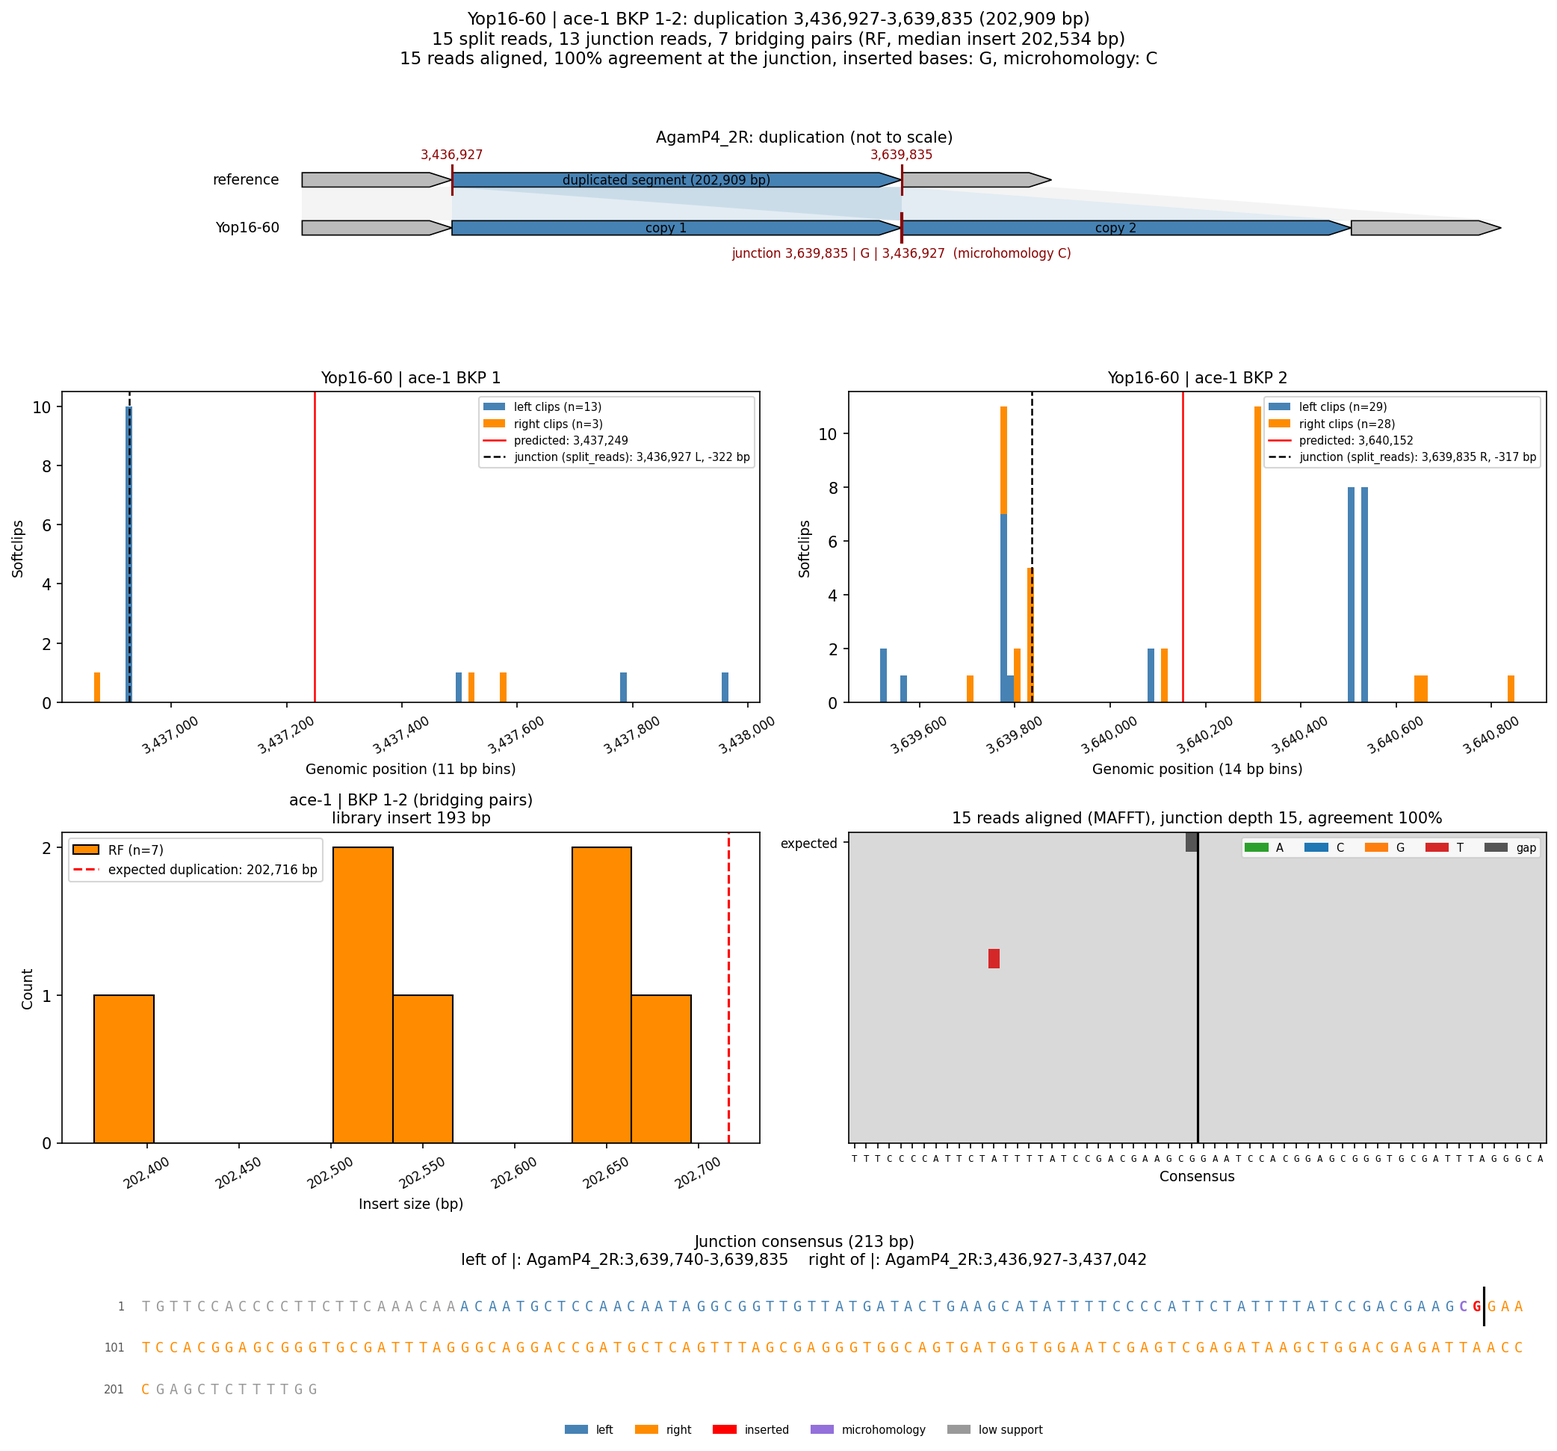
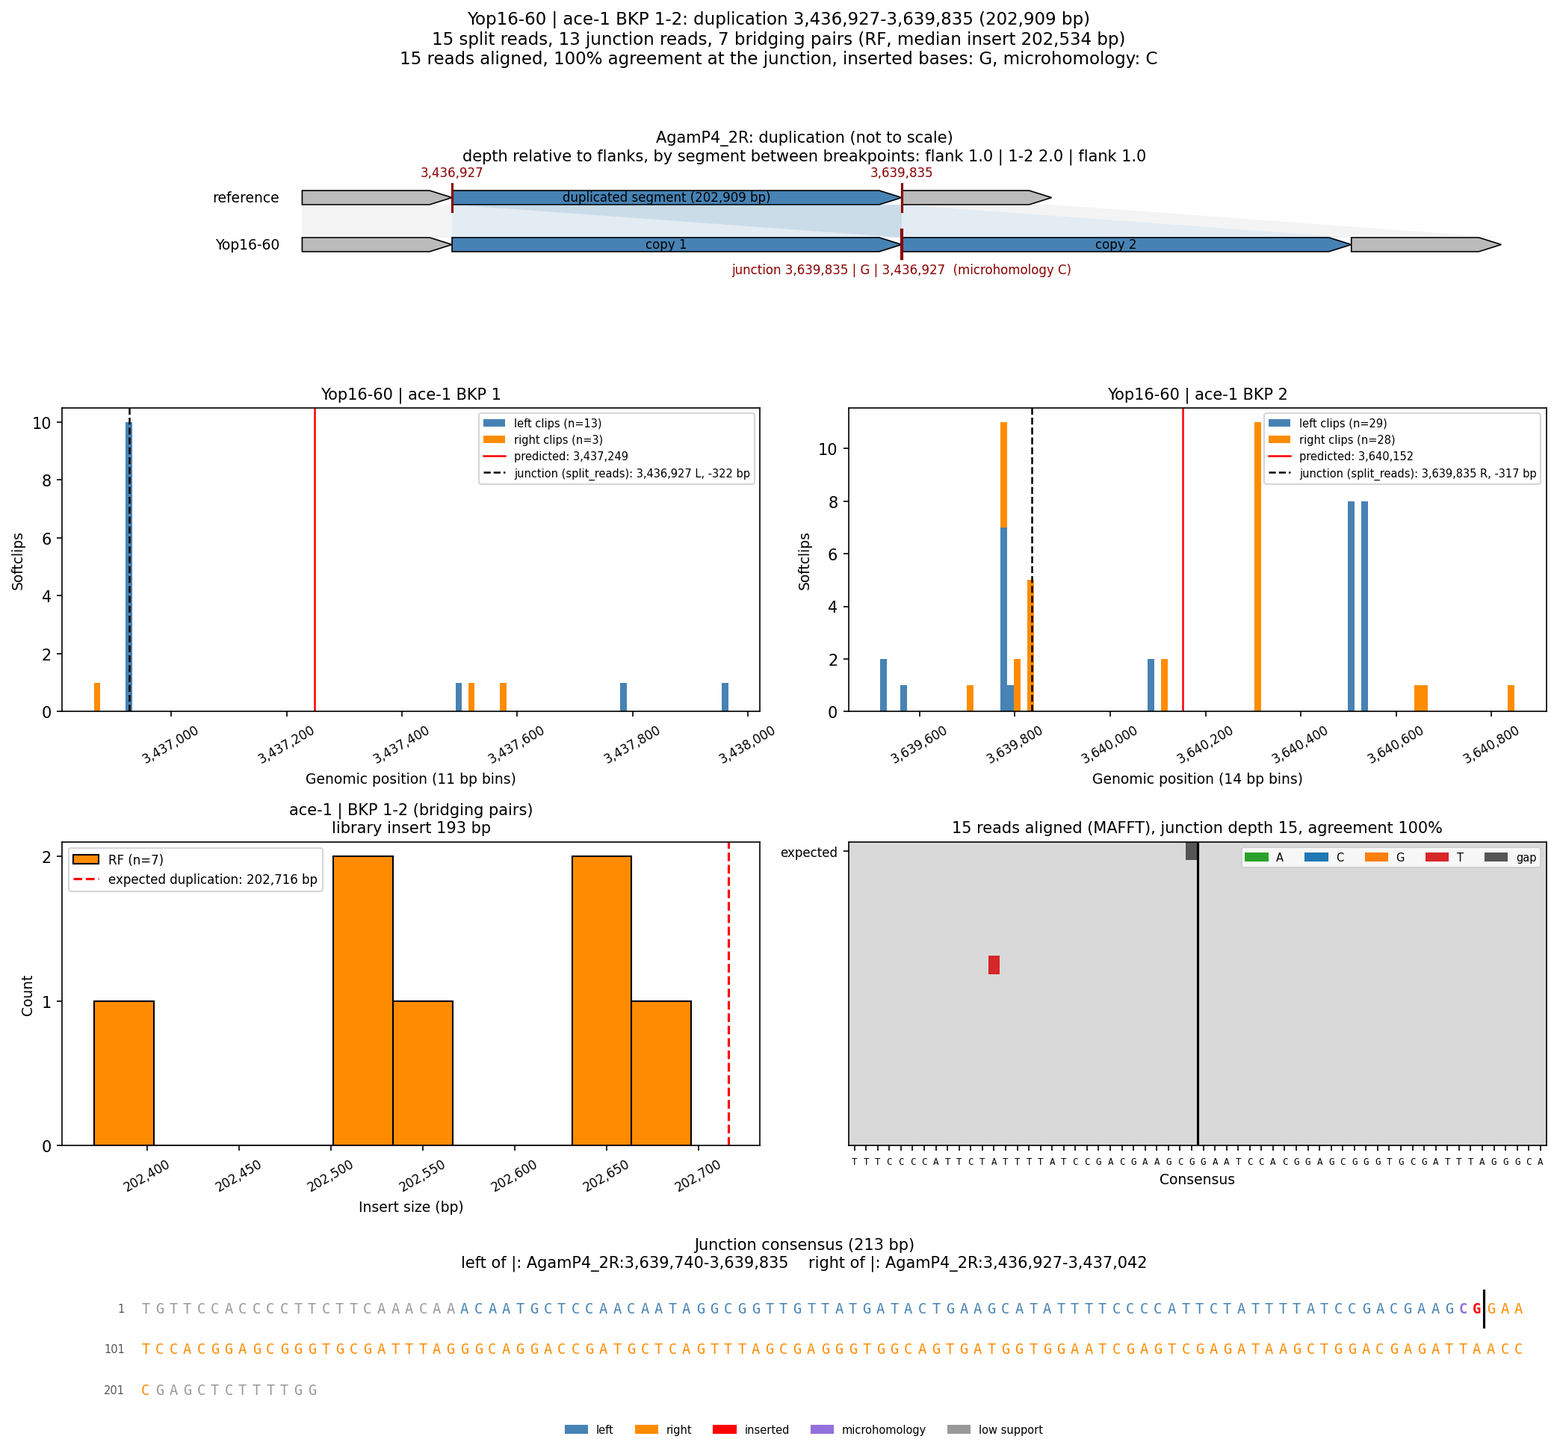
junctions: call SVs only between joined breakpoints, segment depths
Two breakpoints are joined when split reads and bridging pairs (or junction
reads without split reads) reach --min-support. Only joined pairs refine
breakpoints, get an SV call, an alignment and an evidence figure. Without
--pairs, only joined pairs are reported and printed as --pairs; with --pairs,
every requested pair is reported with joined and support columns. Add
segment depths between consecutive breakpoints relative to the flanks
(*_segments.tsv, --segment-flank), also shown on the schematic.

diff --git a/ardu/cli/junctions.py b/ardu/cli/junctions.py
@@ -96,6 +96,13 @@ def register(subparsers) -> None:
                              "summary in the title. With --junction and MAFFT installed, "
                              "also align the junction and split reads and add their "
                              "consensus around the junction.")
+    parser.add_argument("--min-support", type=int, default=2,
+                        help="Split reads plus bridging pairs (junction reads without "
+                             "split reads) needed to join two breakpoints and call an SV. "
+                             "Default=2.")
+    parser.add_argument("--segment-flank", type=int, default=10_000,
+                        help="Length of the flanks, outside the first and last breakpoints, "
+                             "that segment depths are compared with. Default=10000.")
     parser.add_argument("--reference", metavar="FASTA",
                         help="Indexed reference FASTA, used for the expected junction "
                              "sequence and microhomology. Defaults to the --blast reference.")
@@ -630,6 +637,8 @@ def _evidence_text(ev: dict) -> str:
         call = (f"{ev['sv_type']} {ev['bkp1_refined']:,}-{ev['bkp2_refined']:,} "
                 f"({ev['size']:,} bp)" if ev["bkp1_refined"] else
                 f"{ev['sv_type']} (~{ev['size']:,} bp)")
+    elif not ev.get("joined", True):
+        call = f"not joined (support {ev['support']})"
     else:
         call = "no SV call"
     junction_reads = "NA" if ev["junction_reads"] is None else ev["junction_reads"]
@@ -847,7 +856,10 @@ def _draw_structure_panel(ax, ev: dict) -> None:
     ax.set_xlim(-1.6, max(x_max, 2 * flank + seg) + 0.3)
     ax.set_ylim(y_sample - 0.7, y_ref + 0.6)
     ax.axis("off")
-    ax.set_title(f"{ev['chrom']}: {sv_type} (not to scale)", fontsize=10)
+    title = f"{ev['chrom']}: {sv_type} (not to scale)"
+    if ev.get("_segments"):
+        title += f"\ndepth relative to flanks, by segment between breakpoints: {ev['_segments']}"
+    ax.set_title(title, fontsize=10)
 
 
 def _plot_evidence(ev: dict, windows: tuple[dict, dict], panel: dict, output_path: str,
@@ -940,33 +952,44 @@ def _junction_search(bam_file: str, windows: dict, locus_pairs: list) -> tuple[l
 def _pair_evidence(
     bam_name: str, locus, b1: int, b2: int, windows: dict, bridges: dict,
     junction_counts: dict | None, library_median, library_mad, sv_type: str,
+    min_support: int,
 ) -> tuple[dict, dict]:
     """Evidence row and bridging insert panel for breakpoints *b1*, *b2* of *locus*.
 
-    The junction is the one most split reads support, or the top softclip of
-    each window without split reads. The SV type is, in order: --sv-type, the
-    split read geometry, the bridging pair orientation, the softclip geometry.
+    The two breakpoints are joined when split reads and bridging pairs (or
+    junction reads, without split reads) reach *min_support*; only then is an
+    SV called. The junction is the one most split reads support, or the top
+    softclip of each window without split reads. The SV type is, in order:
+    --sv-type, the split read geometry, the bridging pair orientation, the
+    softclip geometry.
     """
     k1, k2 = (locus, b1), (locus, b2)
     w1, w2 = windows[k1], windows[k2]
     junctions = _split_junctions(windows, k1, k2)
+    pairs = [p for _, p in bridges.get((locus, b1, b2), {}).values()]
+    n_split = sum(len(v) for v in junctions.values())
+    n_junction = None if junction_counts is None else junction_counts.get((locus, b1, b2), 0)
+    support = n_split + len(pairs) + ((n_junction or 0) if not n_split else 0)
+    joined = support >= min_support
+
     ends, refined_by, split_reads = (None, None), None, []
-    if junctions:
+    if joined and junctions:
         (p1, s1, p2, s2), split_reads = max(junctions.items(), key=lambda j: len(j[1]))
         ends, refined_by = ((p1, s1), (p2, s2)), "split_reads"
-    elif w1["clips"] and w2["clips"]:
+    elif joined and w1["clips"] and w2["clips"]:
         ends, refined_by = (_top_clip(w1["clips"]), _top_clip(w2["clips"])), "softclips"
     geometry_type, size = _sv_geometry(*ends) if refined_by else (None, None)
 
     chosen = sv_type if sv_type != "auto" else (
         geometry_type if refined_by == "split_reads" else None
     )
-    pairs = [p for _, p in bridges.get((locus, b1, b2), {}).values()]
     panel = {
         "locus": locus, "panel": f"{b1}-{b2}", "class": "bridging", "pairs": pairs,
         "size": size if size is not None else abs(w2["predicted"] - w1["predicted"]),
     }
     _finish_panel(panel, library_median, library_mad, chosen or "auto")
+    if not joined:
+        panel["sv_type"] = panel["expected"] = None
 
     ev = {
         "bam": bam_name, "locus": locus, "pair": f"{b1}-{b2}", "chrom": w1["region"][0],
@@ -976,12 +999,13 @@ def _pair_evidence(
         "bkp2_refined": ends[1][0] if ends[1] else None,
         "bkp2_side": ends[1][1] if ends[1] else None,
         "refined_by": refined_by,
-        "sv_type": chosen or panel["sv_type"] or geometry_type,
+        "joined": joined,
+        "support": support,
+        "sv_type": (chosen or panel["sv_type"] or geometry_type) if joined else None,
         "size": size,
-        "split_reads": sum(len(v) for v in junctions.values()),
+        "split_reads": n_split,
         "split_reads_at_junction": len(split_reads),
-        "junction_reads": (None if junction_counts is None
-                           else junction_counts.get((locus, b1, b2), 0)),
+        "junction_reads": n_junction,
         "softclips_bkp1": len(w1["clips"]),
         "softclips_bkp2": len(w2["clips"]),
         "bridging_pairs": len(pairs),
@@ -1037,6 +1061,41 @@ def _junction_alignment(ev: dict, matches: list, k1: tuple, k2: tuple, fasta,
     return alignment
 
 
+def _segment_depths(bam_file: str, bam_name: str, windows: dict, refined_by_key: dict,
+                    flank: int) -> list[dict]:
+    """Median depth of each segment between consecutive breakpoints of a locus,
+    and of the flanks outside them, relative to the mean of the two flanks.
+    Breakpoints refined by a joined pair are used, else the predicted ones.
+    """
+    rows = []
+    with pysam.AlignmentFile(bam_file, "rb") as bam:
+        for locus in dict.fromkeys(k[0] for k in windows):
+            keys = [k for k in windows if k[0] == locus]
+            chrom = windows[keys[0]]["region"][0]
+            if len(keys) < 2 or any(windows[k]["region"][0] != chrom for k in keys):
+                continue
+            positions = sorted(
+                (refined_by_key[k][0] if k in refined_by_key else windows[k]["predicted"], k[1])
+                for k in keys
+            )
+            bounds = ([max(0, positions[0][0] - flank)] + [p for p, _ in positions]
+                      + [positions[-1][0] + flank])
+            labels = (["flank"] + [f"{a}-{b}" for (_, a), (_, b) in zip(positions, positions[1:])]
+                      + ["flank"])
+            medians = []
+            for start, end in zip(bounds, bounds[1:]):
+                depth = bam_utils.depth_array(bam, chrom, start, end)
+                medians.append(float(np.median(depth)) if len(depth) else float("nan"))
+            base = np.nanmean([medians[0], medians[-1]])
+            for label, start, end, median in zip(labels, bounds, bounds[1:], medians):
+                rows.append({
+                    "bam": bam_name, "locus": locus, "segment": label, "chrom": chrom,
+                    "start": start + 1, "end": end, "median_depth": median,
+                    "relative_depth": round(median / base, 2) if base else None,
+                })
+    return rows
+
+
 # ---------------------------------------------------------------------------
 # Main orchestration
 # ---------------------------------------------------------------------------
@@ -1049,6 +1108,7 @@ def run(args) -> None:
     bridges_output = f"{args.output}_bridging_pairs.tsv"
     summary_output = f"{args.output}_insert_summary.tsv"
     evidence_output = f"{args.output}_junction_summary.tsv"
+    segments_output = f"{args.output}_segments.tsv"
 
     for path in (fasta_output, tsv_output):
         if os.path.exists(path):
@@ -1110,6 +1170,7 @@ def run(args) -> None:
 
     summary_rows: list[dict] = []
     evidence_rows: list[dict] = []
+    segment_rows: list[dict] = []
     pooled_library: list[int] = []
     pooled_panels: dict = {}
     pooled_windows: dict = {}
@@ -1182,13 +1243,19 @@ def run(args) -> None:
                 write_junction_reads_fasta(matches, output_dir, bam_name)
 
         # ---- Evidence per breakpoint pair ----
-        refined_by_key: dict[tuple, tuple] = {}
         pair_results = []
         for locus, b1, b2 in locus_pairs:
             ev, panel = _pair_evidence(
                 bam_name, locus, b1, b2, windows, bridges, junction_counts,
-                library_median, library_mad, args.sv_type,
+                library_median, library_mad, args.sv_type, args.min_support,
             )
+            if not ev["joined"]:
+                if canonical_pairs:
+                    print(f"Warning: {bam_name} {locus} BKP {b1}-{b2} not joined "
+                          f"(support {ev['support']}, --min-support {args.min_support}).")
+                    evidence_rows.append(ev)
+                    pair_results.append((locus, b1, b2, ev, panel, None))
+                continue
             alignment = None
             if fasta is not None and ev["_ends"]:
                 ev["_microhomology"] = microhomology_split(fasta, ev["chrom"], ev["_ends"])
@@ -1201,11 +1268,29 @@ def run(args) -> None:
                 )
             evidence_rows.append(ev)
             pair_results.append((locus, b1, b2, ev, panel, alignment))
+
+        joined = [(locus, b1, b2, ev) for locus, b1, b2, ev, *_ in pair_results if ev["joined"]]
+        if not canonical_pairs:
+            found = " ".join(f"{b1}-{b2}" for _, b1, b2, _ in joined)
+            print(f"Joined breakpoint pairs in {bam_name}: "
+                  + (f"--pairs {found}" if found else "none"))
+        # breakpoints are refined by the joined pairs, split reads first
+        refined_by_key: dict[tuple, tuple] = {}
+        for locus, b1, b2, ev in sorted(joined, key=lambda j: j[3]["refined_by"] != "split_reads"):
             for bkp, n in ((b1, 1), (b2, 2)):
                 if ev[f"bkp{n}_refined"] is not None:
                     refined_by_key.setdefault((locus, bkp), (
                         ev[f"bkp{n}_refined"], ev[f"bkp{n}_side"], ev["refined_by"]
                     ))
+        segments = _segment_depths(bam_file, bam_name, windows, refined_by_key,
+                                   args.segment_flank)
+        segment_rows.extend(segments)
+        segment_text = {
+            locus: " | ".join(f"{r['segment']} {r['relative_depth']:.1f}"
+                              for r in segments if r["locus"] == locus
+                              and r["relative_depth"] is not None)
+            for locus in {r["locus"] for r in segments}
+        }
         for key, w in windows.items():
             if key not in refined_by_key and w["clips"]:
                 refined_by_key[key] = (*_top_clip(w["clips"]), "softclips")
@@ -1238,6 +1323,9 @@ def run(args) -> None:
                                      f"{args.output}_{bam_name}_softclip_dist.png")
         if args.plot_evidence:
             for locus, b1, b2, ev, panel, alignment in pair_results:
+                if not ev["joined"]:
+                    continue
+                ev["_segments"] = segment_text.get(locus)
                 _plot_evidence(
                     ev, (window_plots[(locus, b1)], window_plots[(locus, b2)]), panel,
                     f"{args.output}_{bam_name}_{locus}_{b1}-{b2}_evidence.png",
@@ -1305,7 +1393,7 @@ def run(args) -> None:
     evidence_columns = [
         "bam", "locus", "pair", "chrom", "bkp1_predicted", "bkp2_predicted",
         "bkp1_refined", "bkp1_side", "bkp2_refined", "bkp2_side", "refined_by",
-        "sv_type", "size", "split_reads", "split_reads_at_junction", "junction_reads",
+        "joined", "support", "sv_type", "size", "split_reads", "split_reads_at_junction", "junction_reads",
         "softclips_bkp1", "softclips_bkp2", "bridging_pairs", "pair_orientation",
         "insert_median", "insert_expected", "microhomology", "aligned_reads",
         "consensus_length", "junction_depth", "junction_agreement", "inserted_bases",
@@ -1321,4 +1409,8 @@ def run(args) -> None:
     print(f"\nBridging pairs saved to {bridges_output}")
     print(f"Insert size summary saved to {summary_output}")
     print(f"Junction evidence saved to {evidence_output}")
+    pd.DataFrame(segment_rows, columns=[
+        "bam", "locus", "segment", "chrom", "start", "end", "median_depth", "relative_depth",
+    ]).to_csv(segments_output, sep="\t", index=False, na_rep="NA")
+    print(f"Segment depths saved to {segments_output}")
     print("Done.")

diff --git a/tests/test_inserts.py b/tests/test_inserts.py
@@ -177,3 +177,35 @@ def test_junction_summary(paired):
         assert row["junction_reads"] == "NA" or pd.isna(row["junction_reads"])
     for plot in ("softclip_dist", "del_1-2_evidence", "dup_1-2_evidence"):
         assert (paired["dir"] / f"out_sample_{plot}.png").exists()
+
+
+def _run_with_third_breakpoint(paired, name, extra):
+    """Rerun on the same bam with a breakpoint 3 at 4,000 in ``del``, joined to nothing."""
+    d = paired["dir"]
+    (d / f"{name}_bkp.tsv").write_text(
+        (d / "bkp.tsv").read_text() + "sample\tdel\tchr1\t4000\t3\truptures\n"
+    )
+    parser = argparse.ArgumentParser()
+    junctions.register(parser.add_subparsers())
+    args = parser.parse_args([
+        "junctions", "-b", str(d / "bams.txt"), "-i", str(d / f"{name}_bkp.tsv"),
+        "-o", str(d / name), "-e", "200", *extra,
+    ])
+    args.func(args)
+    return (pd.read_csv(d / f"{name}_junction_summary.tsv", sep="\t"),
+            pd.read_csv(d / f"{name}_segments.tsv", sep="\t"))
+
+
+def test_only_joined_pairs_without_pairs_option(paired):
+    evidence, segments = _run_with_third_breakpoint(paired, "auto", [])
+    assert sorted(zip(evidence["locus"], evidence["pair"])) == [("del", "1-2"), ("dup", "1-2")]
+    assert evidence["joined"].all()
+    assert list(segments.query("locus == 'del'")["segment"]) == ["flank", "1-2", "2-3", "flank"]
+
+
+def test_requested_pair_not_joined_gets_no_call(paired):
+    evidence, _ = _run_with_third_breakpoint(paired, "forced", ["--pairs", "1-3"])
+    row = evidence.set_index(["locus", "pair"]).loc[("del", "1-3")]
+    assert not row["joined"]
+    assert row["support"] == 0
+    assert pd.isna(row["sv_type"]) and pd.isna(row["size"]) and pd.isna(row["bkp1_refined"])

diff --git a/README.md b/README.md
@@ -250,12 +250,19 @@ The library insert is the median of the proper FR pairs. A pair is discordant wh
 
 #### Junction evidence
 
-For each pair of breakpoints (the `--pairs`, or every pair within a locus), the evidence is gathered in `*_junction_summary.tsv`:
+Two breakpoints are **joined** when the split reads and bridging pairs between them (or the junction reads, without split reads) reach `--min-support` (default 2). Only joined pairs are refined, called and plotted, so with more than two breakpoints (complex rearrangements, or a duplication with a deletion inside a copy) the steps in depth that are not junctions are not reported as SVs.
+
+- Without `--pairs`, every pair of breakpoints within a locus is tested and only the joined ones are reported; ArDu prints them as `--pairs` to reuse.
+- With `--pairs`, every requested pair is reported, with `joined` and `support` columns, and a warning for those not joined.
+
+For each pair, the evidence is gathered in `*_junction_summary.tsv`:
 - **split reads**: primary alignments clipped in one window whose supplementary alignment (`SA` tag) is clipped in the other. The junction most of them support gives the refined breakpoints; without split reads, the position with the most softclips in each window is used.
 - **SV type and size** from the side of the clips: left clips at the left breakpoint and right clips at the right one make a tandem duplication (size from first to last duplicated base), the opposite makes a deletion (size of the deleted segment). `--sv-type` overrides it; without split reads, the bridging pair orientation decides.
 - **junction reads** (with `--junction`), **softclips** per window and **bridging pairs** with their orientation, median and expected insert, the expected insert using the refined size.
 
-`--plot-evidence` draws one figure per sample and breakpoint pair: for a deletion or a tandem duplication, a schematic of the reference and the sample (not to scale) with the junction and its sequence; the softclips at both breakpoints (left and right clips stacked, with the predicted and refined positions) and the bridging pair inserts, with the call and its evidence in the title.
+`*_segments.tsv` gives, for each locus with two breakpoints or more, the median depth of each segment between consecutive breakpoints (refined ones when joined, else predicted) and of the flanks outside them (`--segment-flank`, default 10 kb), relative to the mean of the two flanks.
+
+`--plot-evidence` draws one figure per sample and joined breakpoint pair: for a deletion or a tandem duplication, a schematic of the reference and the sample (not to scale) with the junction, its sequence and the segment depths; the softclips at both breakpoints (left and right clips stacked, with the predicted and refined positions) and the bridging pair inserts, with the call and its evidence in the title.
 
 #### Junction sequence
 
@@ -291,6 +298,8 @@ ardu junctions -b bamlist.txt -i ArDuRun-run1-DATE/run1_breakpoints.tsv \
 | `--plot-insert` | Plot insert-size distributions. | `False` |
 | `--plot-softclip` | Plot softclip pileup per breakpoint, left and right clips stacked, with predicted and refined positions. | `False` |
 | `--plot-evidence` | Plot softclips at both breakpoints and the bridging pair inserts of each breakpoint pair, with the evidence summary. With `--junction` and MAFFT, also align the junction reads. | `False` |
+| `--min-support` | Split reads plus bridging pairs (junction reads without split reads) needed to join two breakpoints and call an SV. | `2` |
+| `--segment-flank` | Length of the flanks outside the first and last breakpoints that segment depths are compared with (bp). | `10000` |
 | `--reference` | Indexed reference FASTA for the expected junction and microhomology. Defaults to the `--blast` reference. | `None` |
 | `--plot-mode` | `per-bam`, `pooled`, or `both`. | `per-bam` |
 
@@ -302,6 +311,7 @@ ardu junctions -b bamlist.txt -i ArDuRun-run1-DATE/run1_breakpoints.tsv \
 | `*_junction_summary.tsv` | One row per sample and breakpoint pair: predicted and refined breakpoints (with clip side and source), SV type and size, split reads, junction reads, softclips per breakpoint, bridging pairs with orientation, median and expected insert; with a reference, the microhomology; with the alignment, reads aligned, consensus length, depth and lowest agreement around the junction, inserted bases and identity with the expected junction. |
 | `*_{sample}_{locus}_1-2_junction_alignment.txt` | Junction and split reads stacked under their consensus, with the junction marked. |
 | `*_{sample}_{locus}_1-2_junction_msa.fasta` | The MAFFT alignment, with the consensus (and the expected junction with a reference). |
+| `*_segments.tsv` | Median depth of each segment between consecutive breakpoints and of the flanks, relative to the flanks. |
 | `*_insert_summary.tsv` | Per BAM (and `pooled`): the library insert (median, quartiles and MAD of proper FR pairs), then n, median and quartiles of the bridging pairs per breakpoint pair (with `--pairs`) or of the discordant pairs per breakpoint, by orientation, with the SV type and expected insert. |
 | `*_soft_clipped_sequences.fasta` | All extracted soft-clipped sequences. |
 | `*.tsv` | Per-read softclip details (position, CIGAR, mate position, insert size). |
